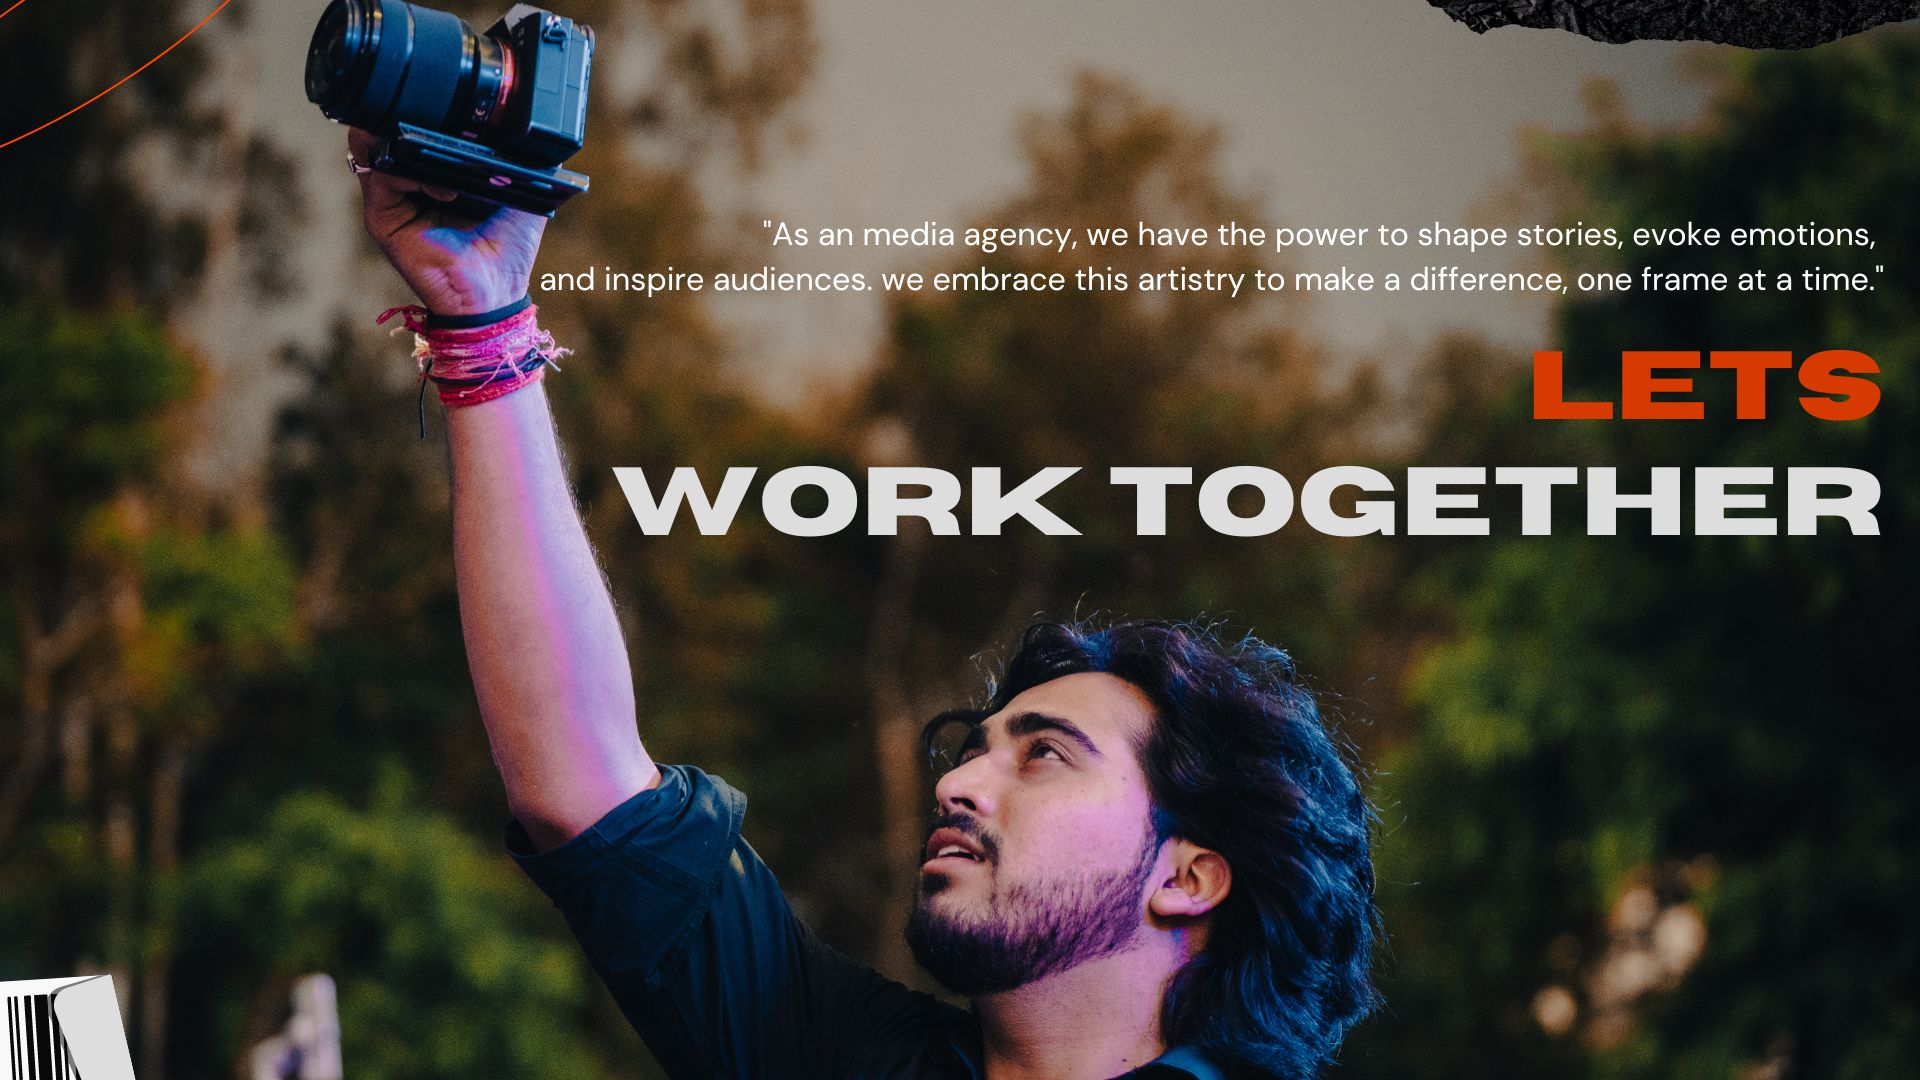
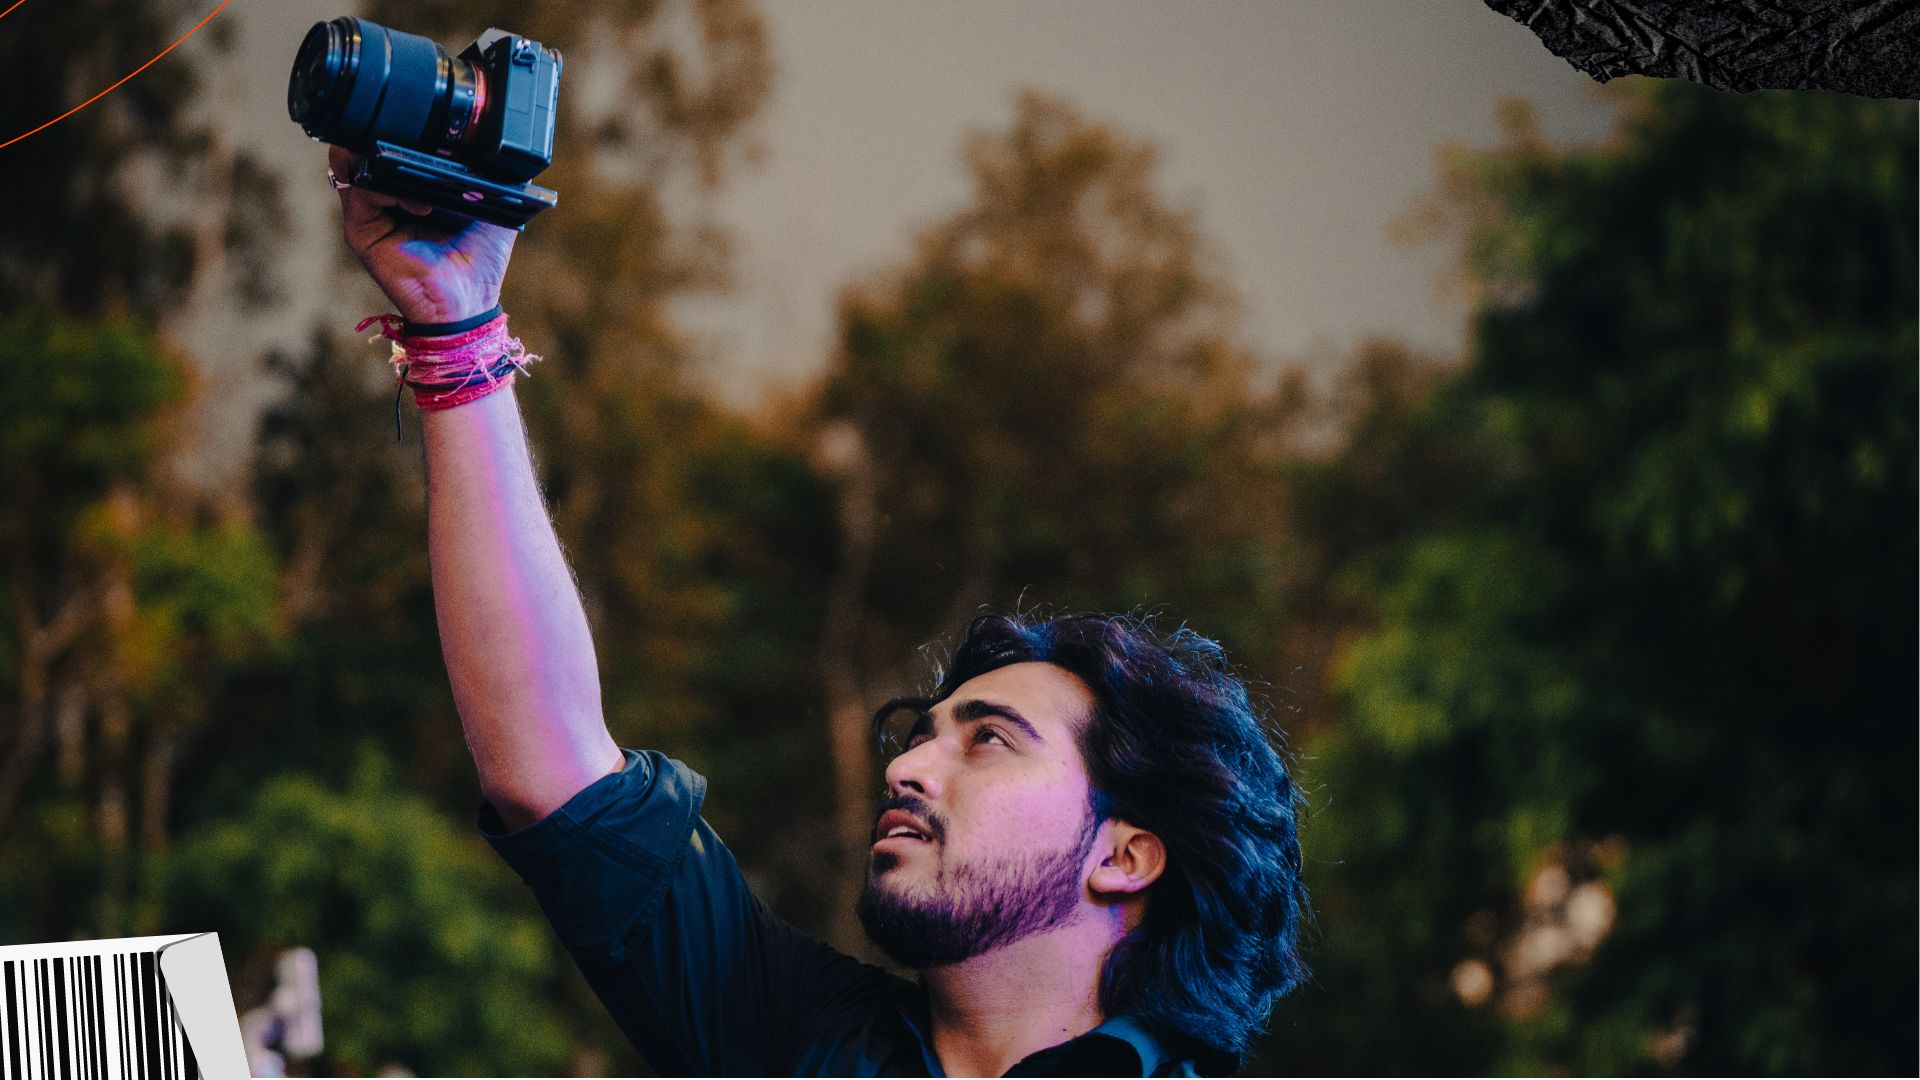
+push

diff --git a/index.html b/index.html
@@ -71,10 +71,24 @@
         <div class="row no-gutters slider-text js-fullheight align-items-start justify-content-center"  >
           <div class="col-lg-7 ftco-animate d-flex align-items-start">
           	<div class="text text-center">
-          		<h1 class="logo" style="margin-top: 40px"><a href="index.html">The Dark Spectre</a></h1>
-		  				<!-- <h1 class="mb-4">QUALITY<br>OVER<br>QUANTITY</h1>
-		  				<p class="mb-4">24 YEARS OLD, PASSIONATE ABOUT SUPERBIKES. I LOVE TO CREATE QUALITY CONTENT IN MINIMAL & CINEMATIC WAY.</p>
-		  				<p class="mt-5"><a href="#testimonial" class="btn-custom">Buy Now <span class="ion-ios-arrow-round-forward"></span></a></p> -->
+				<div class="logo" style="margin-top: 40px;display: flex;
+				width: 100%;
+				justify-content: center;"> 
+					<img style="    object-fit: contain;
+					height: 100px;
+					width: 100%;
+					" src="AFTER/pixtopixlogo.png">
+				</div>
+          		
+					
+				</a></h1>
+				<div class="tag">
+					<h1 class="mb-4">❝ CREATING<br>BRANDS<br>FRAME BY FRAME ❞</h1>
+		  				<p class="mb-4">"As a media agency, we have the power to shape stories, evoke emotions,
+							and inspire audiences. we embrace this artistry to make a difference, one frame at a time."</p>
+		  				
+				</div>
+		  				
             </div>
           </div>
         </div>

diff --git a/css/style.css b/css/style.css
@@ -8409,6 +8409,7 @@ strong {
     bottom: 0;
     content: '';
     opacity: .5;
+    background: #000;
      }
 
 .slider-text {
